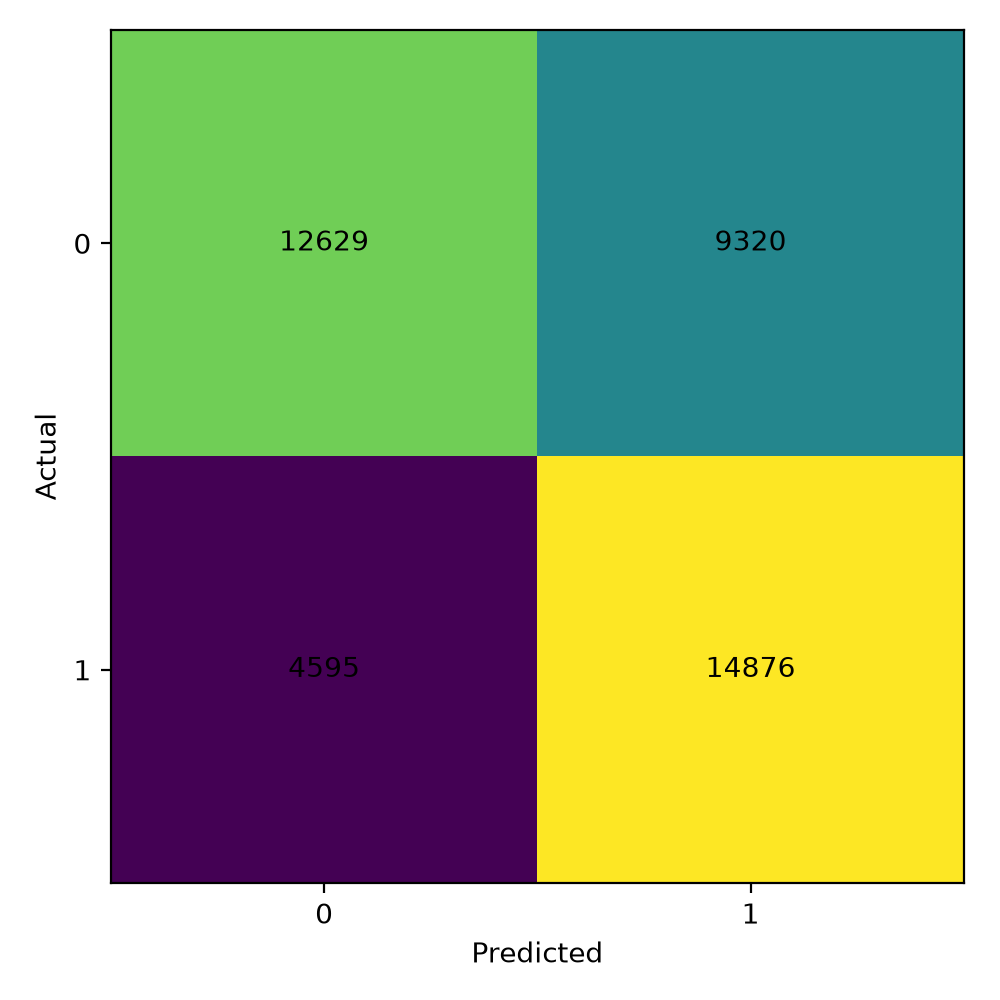
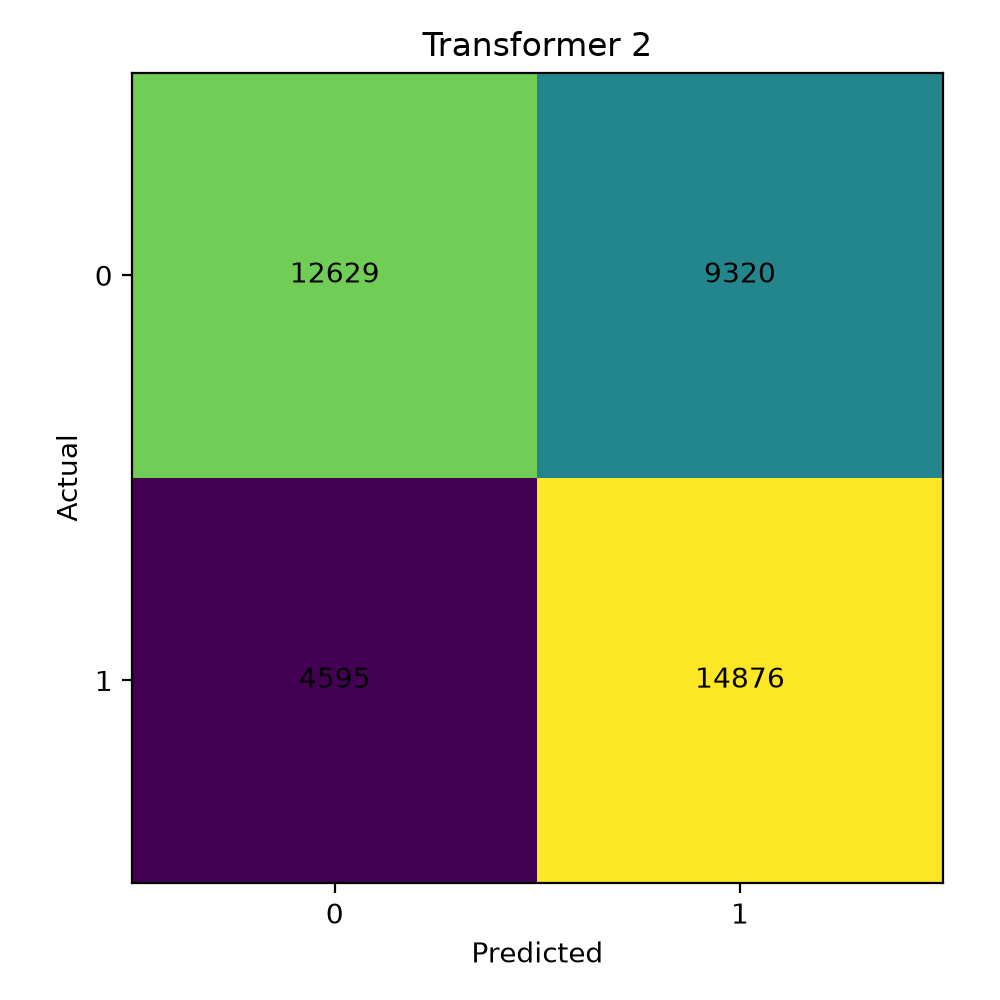
Improved Transformer evaluation and resource reporting

diff --git a/src/train_transformer1_mlflow.py b/src/train_transformer1_mlflow.py
@@ -1,81 +1,65 @@
 from pathlib import Path
-import random, time, mlflow, numpy as np, pandas as pd, torch
-from sklearn.metrics import accuracy_score, precision_score, recall_score, f1_score
+import random,time,mlflow,numpy as np,pandas as pd,torch
+from sklearn.metrics import accuracy_score,precision_score,recall_score,f1_score
 from sklearn.model_selection import GroupKFold
 from torch import nn
-from torch.utils.data import TensorDataset, DataLoader
+from torch.utils.data import TensorDataset,DataLoader
 from embedding_model import EmbeddingClassifier
 
-SEED, BATCH, EPOCHS, LR, FOLDS = 42, 128, 10, 1e-3, 3
-HIDDEN, DROPOUT = 256, 0.3
+SEED,BATCH,EPOCHS,LR,FOLDS,HIDDEN,DROPOUT=42,128,10,1e-3,3,256,0.3
 
-def seed(s):
-    random.seed(s); np.random.seed(s); torch.manual_seed(s)
+def seed(s): random.seed(s); np.random.seed(s); torch.manual_seed(s)
 
-def evaluate(model, loader, loss_fn):
+def evaluate(model,loader,loss_fn):
     model.eval(); loss=0; ys=[]; ps=[]; probs=[]
     with torch.no_grad():
         for x,y in loader:
             z=model(x); loss+=loss_fn(z,y).item(); p=torch.softmax(z,1)[:,1]
-            ys.extend(y.numpy()); ps.extend(z.argmax(1).numpy()); probs.extend(p.numpy())
-    return loss/len(loader), accuracy_score(ys,ps), precision_score(ys,ps,zero_division=0), recall_score(ys,ps,zero_division=0), f1_score(ys,ps,zero_division=0), ys, ps, probs
+            ys+=y.tolist(); ps+=z.argmax(1).tolist(); probs+=p.tolist()
+    return loss/len(loader),accuracy_score(ys,ps),precision_score(ys,ps,zero_division=0),recall_score(ys,ps,zero_division=0),f1_score(ys,ps,zero_division=0),ys,ps,probs
 
 def main():
-    seed(SEED)
-    root=Path(__file__).resolve().parent.parent
+    seed(SEED); root=Path(__file__).resolve().parent.parent
     data=torch.load(root/"data/processed/distilbert_embeddings.pt",weights_only=False)
     X=data["embeddings"].float(); y=data["labels"].long()
     groups=np.array([f"{c}_{f}" for c,f in zip(data["category"],data["file_name"])])
-    mlflow.set_tracking_uri(f"sqlite:///{(root/'mlflow.db').resolve().as_posix()}")
-    mlflow.set_experiment("BBC-News-Summary-Transformer")
-    out=root/"results/metrics"; models=root/"results/models"
-    out.mkdir(parents=True,exist_ok=True); models.mkdir(parents=True,exist_ok=True)
+    mlflow.set_tracking_uri(f"sqlite:///{(root/'mlflow.db').resolve().as_posix()}"); mlflow.set_experiment("BBC-News-Summary-Transformer")
+    out=root/"results/metrics"; models=root/"results/models"; out.mkdir(parents=True,exist_ok=True); models.mkdir(parents=True,exist_ok=True)
     results=[]; history=[]; oof=[]
 
     for fold,(tr,va) in enumerate(GroupKFold(FOLDS).split(X,y,groups),1):
         seed(SEED+fold)
-        train=DataLoader(TensorDataset(X[tr],y[tr]),batch_size=BATCH,shuffle=True)
-        val=DataLoader(TensorDataset(X[va],y[va]),batch_size=BATCH)
-        model=EmbeddingClassifier(768,HIDDEN,DROPOUT)
+        train=DataLoader(TensorDataset(X[tr],y[tr]),BATCH,shuffle=True); val=DataLoader(TensorDataset(X[va],y[va]),BATCH)
+        model=EmbeddingClassifier(768,HIDDEN,DROPOUT); params=sum(p.numel() for p in model.parameters() if p.requires_grad)
         opt=torch.optim.AdamW(model.parameters(),lr=LR); loss_fn=nn.CrossEntropyLoss()
         path=models/f"transformer1_fold{fold}.pt"; best=None; best_epoch=0; start=time.perf_counter()
 
         with mlflow.start_run(run_name=f"transformer1_fold_{fold}"):
-            mlflow.log_params({"model":"DistilBERT embeddings + MLP","fold":fold,"batch_size":BATCH,"epochs":EPOCHS,"learning_rate":LR,"hidden":HIDDEN,"dropout":DROPOUT,"folds":FOLDS,"seed":SEED+fold})
+            mlflow.log_params({"model":"DistilBERT embeddings + MLP","fold":fold,"batch_size":BATCH,"epochs":EPOCHS,"learning_rate":LR,"hidden":HIDDEN,"dropout":DROPOUT,"folds":FOLDS,"seed":SEED+fold,"trainable_parameters":params})
 
             for epoch in range(1,EPOCHS+1):
                 model.train(); total=0; t=time.perf_counter()
                 for xb,yb in train:
                     opt.zero_grad(); z=model(xb); loss=loss_fn(z,yb); loss.backward(); opt.step(); total+=loss.item()
-
-                train_loss=total/len(train)
-                val_loss,acc,pre,rec,f1,_,_,_=evaluate(model,val,loss_fn)
+                train_loss=total/len(train); val_loss,acc,pre,rec,f1,_,_,_=evaluate(model,val,loss_fn)
                 row={"fold":fold,"epoch":epoch,"train_loss":train_loss,"val_loss":val_loss,"accuracy":acc,"precision":pre,"recall":rec,"f1":f1,"epoch_time":time.perf_counter()-t}
                 history.append(row)
                 for k,v in row.items():
                     if k not in ("fold","epoch"): mlflow.log_metric(k,v,step=epoch)
                 print(f"Fold {fold} Epoch {epoch}/{EPOCHS} | Acc {acc:.4f} | F1 {f1:.4f} | Loss {val_loss:.4f}")
+                if best is None or f1>best[4]: best=(val_loss,acc,pre,rec,f1); best_epoch=epoch; torch.save(model.state_dict(),path)
 
-                if best is None or f1>best[4]:
-                    best=(val_loss,acc,pre,rec,f1); best_epoch=epoch; torch.save(model.state_dict(),path)
-
-            train_time=time.perf_counter()-start
-            model.load_state_dict(torch.load(path,weights_only=True))
+            train_time=time.perf_counter()-start; model.load_state_dict(torch.load(path,weights_only=True))
             t=time.perf_counter(); val_loss,acc,pre,rec,f1,ys,ps,probs=evaluate(model,val,loss_fn); inf=time.perf_counter()-t
             size=path.stat().st_size/1024**2
-            results.append({"fold":fold,"best_epoch":best_epoch,"accuracy":acc,"precision":pre,"recall":rec,"f1":f1,"val_loss":val_loss,"training_time":train_time,"inference_time":inf,"model_size_mb":size})
-            oof.extend({"fold":fold,"label":a,"prediction":b,"probability":c} for a,b,c in zip(ys,ps,probs))
+            results.append({"fold":fold,"best_epoch":best_epoch,"accuracy":acc,"precision":pre,"recall":rec,"f1":f1,"val_loss":val_loss,"training_time":train_time,"inference_time":inf,"model_size_mb":size,"trainable_parameters":params})
+            oof += [{"fold":fold,"label":a,"prediction":b,"probability":c} for a,b,c in zip(ys,ps,probs)]
             mlflow.log_metrics({"best_accuracy":acc,"best_precision":pre,"best_recall":rec,"best_f1":f1,"training_time":train_time,"inference_time":inf,"model_size_mb":size})
 
-    r=pd.DataFrame(results); h=pd.DataFrame(history); p=pd.DataFrame(oof)
+    r=pd.DataFrame(results); pd.DataFrame(history).to_csv(out/"transformer1_history.csv",index=False); pd.DataFrame(oof).to_csv(out/"transformer1_oof_predictions.csv",index=False)
     r.to_csv(out/"transformer1_cv_results.csv",index=False)
-    h.to_csv(out/"transformer1_history.csv",index=False)
-    p.to_csv(out/"transformer1_oof_predictions.csv",index=False)
-
-    print("\nTRANSFORMER 1")
-    print(r[["fold","accuracy","precision","recall","f1"]].to_string(index=False))
+    print("\nTRANSFORMER 1"); print(r[["fold","accuracy","precision","recall","f1"]].to_string(index=False))
     for m in ["accuracy","precision","recall","f1"]: print(f"{m}: {r[m].mean():.4f} ± {r[m].std():.4f}")
-    print(f"Average training time: {r.training_time.mean():.2f}s")
+    print(f"Average training time: {r.training_time.mean():.2f}s\nTrainable parameters: {params}")
 
-if __name__=="__main__":
-    main()
+if __name__=="__main__": main()

diff --git a/src/plot_transformer_results.py b/src/plot_transformer_results.py
@@ -34,28 +34,37 @@ def main():
     plt.xlabel("Epoch"); plt.ylabel("Validation loss"); plt.legend()
     savefig(plots/"transformer_learning_curves.png")
 
-    best=pd.read_csv(metrics/"transformer2_oof_predictions.csv")
-    cm=confusion_matrix(best.label,best.prediction)
-    plt.figure(figsize=(5,5))
-    plt.imshow(cm)
-    plt.xticks([0,1],["0","1"]); plt.yticks([0,1],["0","1"])
-    plt.xlabel("Predicted"); plt.ylabel("Actual")
-    for i in range(2):
-        for j in range(2): plt.text(j,i,cm[i,j],ha="center",va="center")
-    savefig(plots/"transformer2_confusion_matrix.png")
+    plt.figure(figsize=(7,6))
+    for i in range(1,6):
+        df=pd.read_csv(metrics/f"transformer{i}_oof_predictions.csv")
 
-    fpr,tpr,_=roc_curve(best.label,best.probability)
-    plt.figure(figsize=(6,5))
-    plt.plot(fpr,tpr,label=f"AUC={auc(fpr,tpr):.3f}")
+        cm=confusion_matrix(df.label,df.prediction)
+        plt_cm=plt.figure(figsize=(5,5))
+        plt.imshow(cm)
+        plt.xticks([0,1],["0","1"]); plt.yticks([0,1],["0","1"])
+        plt.xlabel("Predicted"); plt.ylabel("Actual")
+        plt.title(f"Transformer {i}")
+        for r in range(2):
+            for c in range(2):
+                plt.text(c,r,cm[r,c],ha="center",va="center")
+        savefig(plots/f"transformer{i}_confusion_matrix.png")
+
+    plt.figure(figsize=(7,6))
+    for i in range(1,6):
+        df=pd.read_csv(metrics/f"transformer{i}_oof_predictions.csv")
+        fpr,tpr,_=roc_curve(df.label,df.probability)
+        plt.plot(fpr,tpr,label=f"Transformer {i} (AUC={auc(fpr,tpr):.3f})")
     plt.plot([0,1],[0,1],"--")
     plt.xlabel("False positive rate"); plt.ylabel("True positive rate"); plt.legend()
-    savefig(plots/"transformer2_roc_curve.png")
+    savefig(plots/"transformer_roc_comparison.png")
 
-    p,r,_=precision_recall_curve(best.label,best.probability)
-    plt.figure(figsize=(6,5))
-    plt.plot(r,p,label=f"AUC={auc(r,p):.3f}")
+    plt.figure(figsize=(7,6))
+    for i in range(1,6):
+        df=pd.read_csv(metrics/f"transformer{i}_oof_predictions.csv")
+        p,r,_=precision_recall_curve(df.label,df.probability)
+        plt.plot(r,p,label=f"Transformer {i} (AUC={auc(r,p):.3f})")
     plt.xlabel("Recall"); plt.ylabel("Precision"); plt.legend()
-    savefig(plots/"transformer2_pr_curve.png")
+    savefig(plots/"transformer_pr_comparison.png")
 
     print(f"Plots saved to: {plots}")
 
